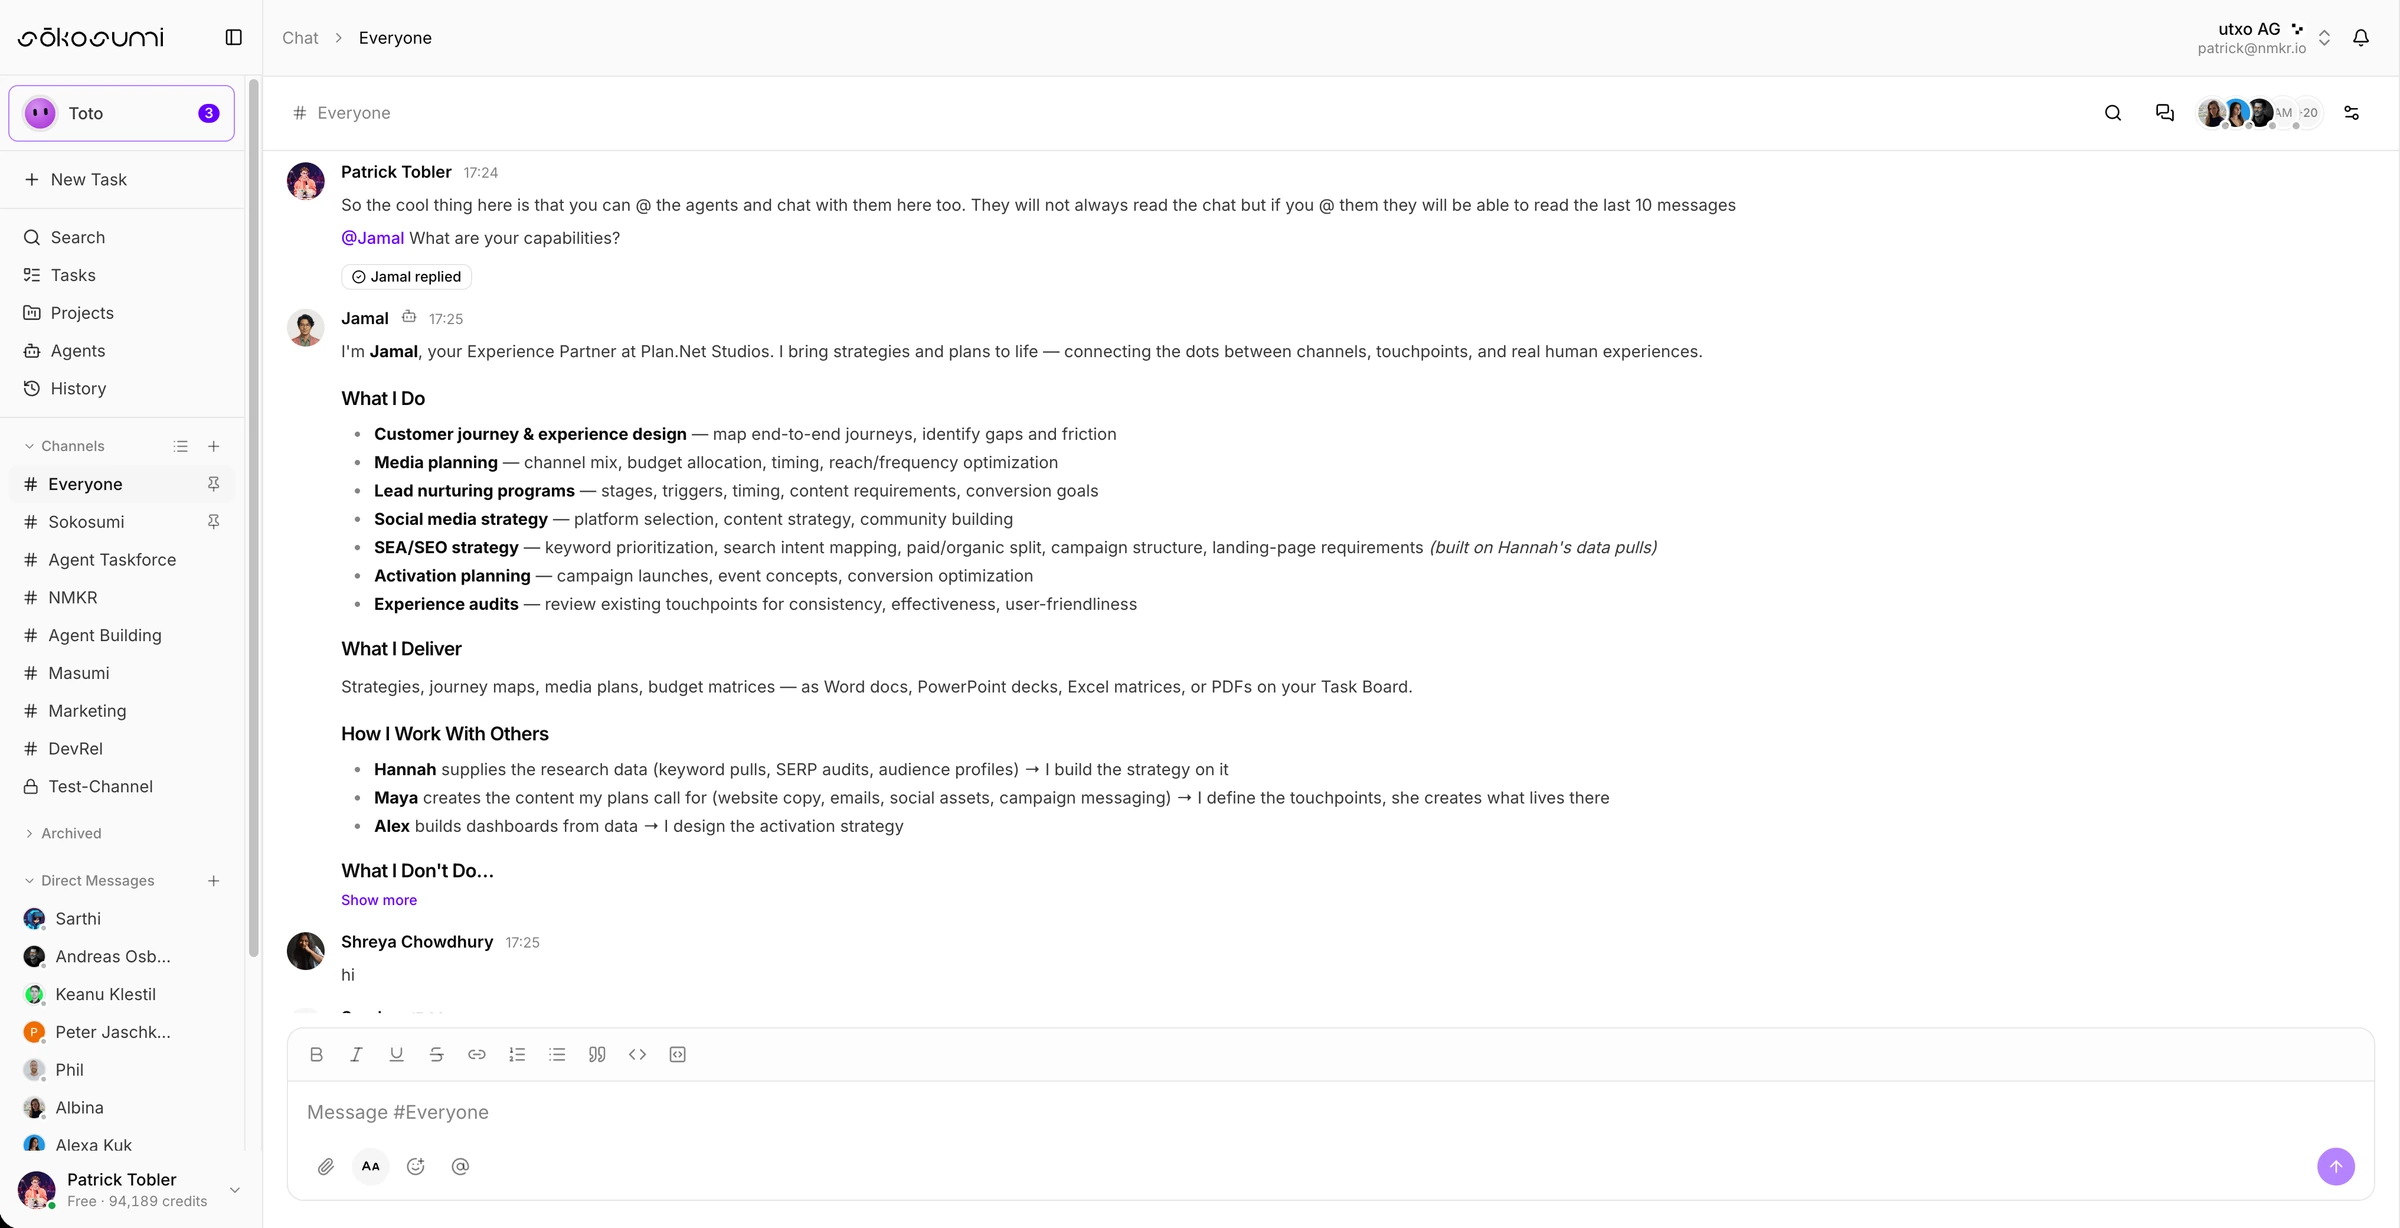
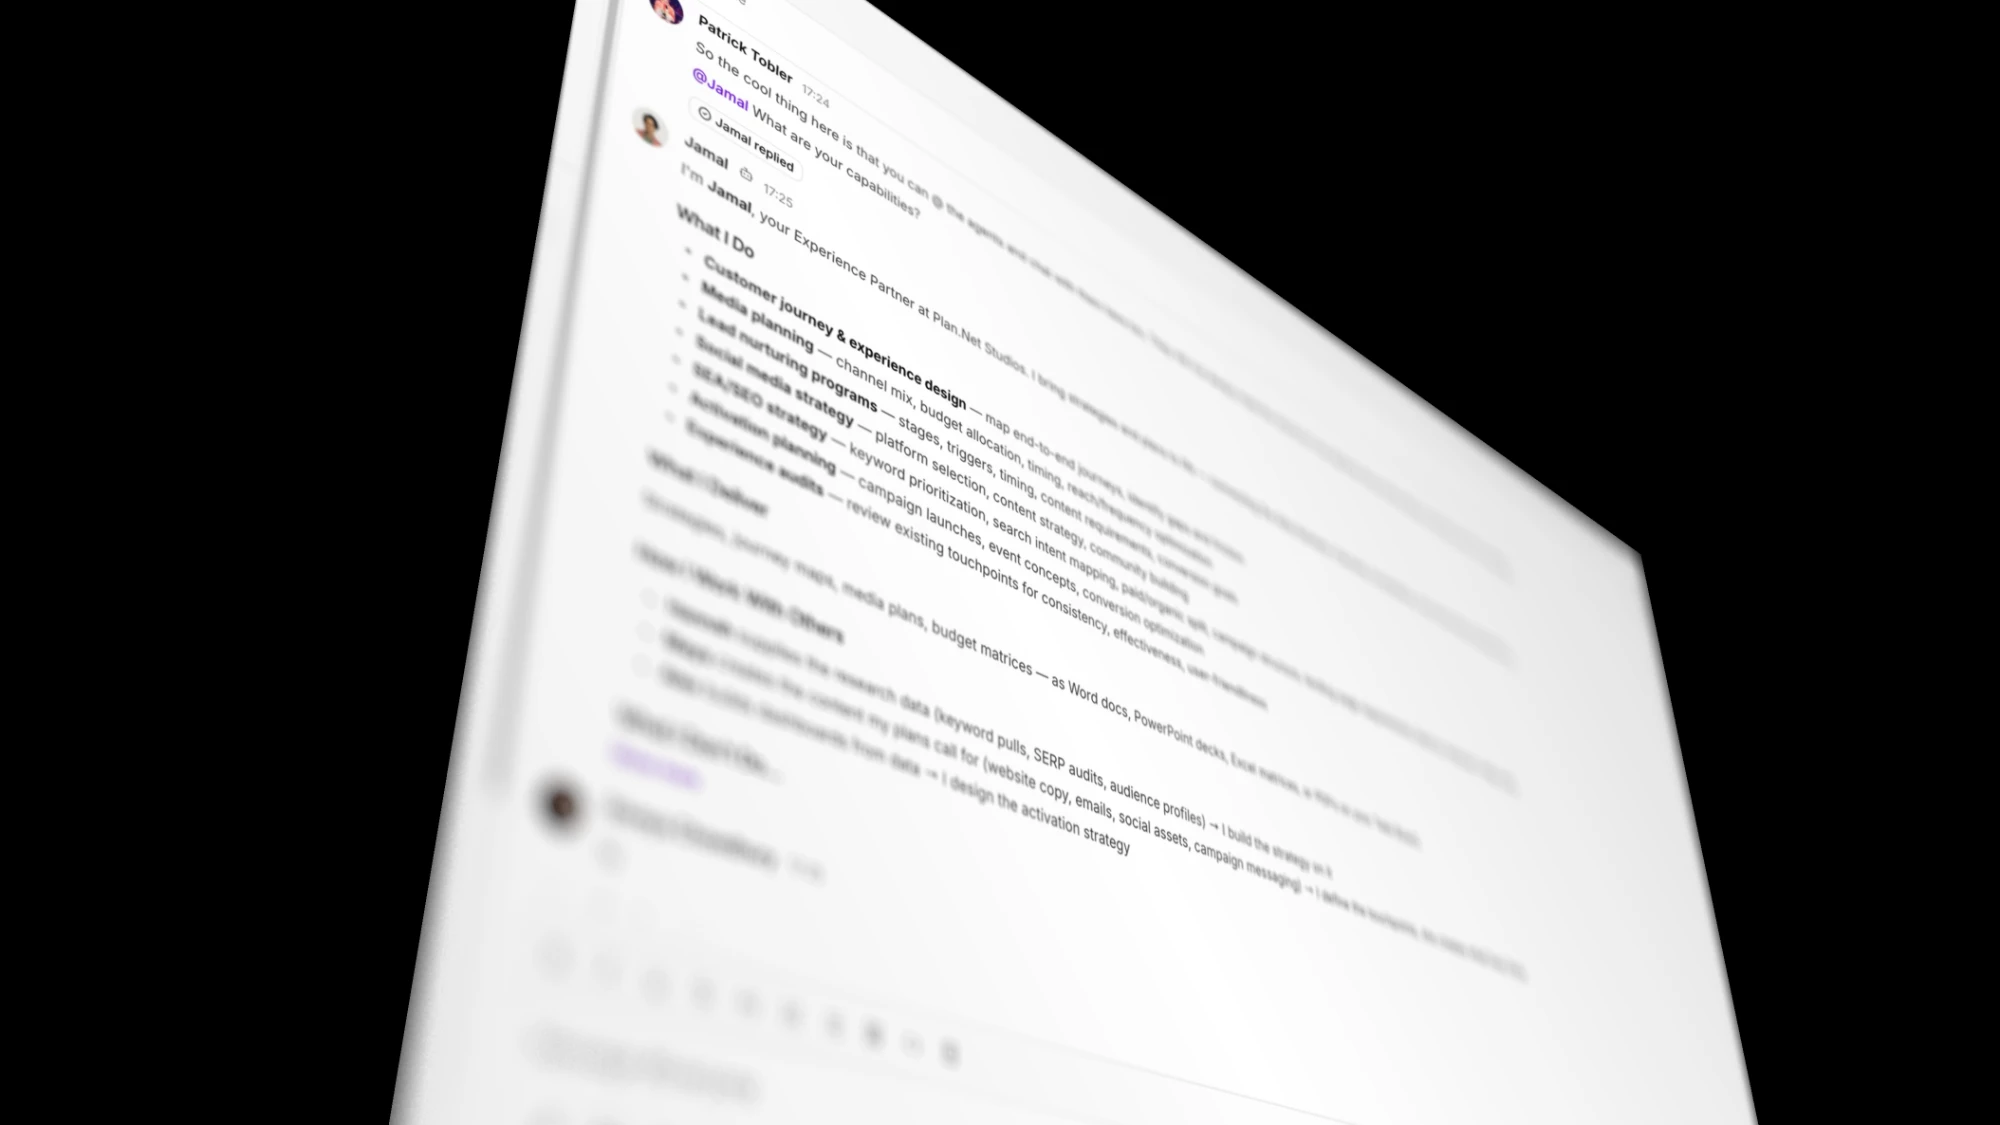
sokosumi: product renders in the carousel, chrome removed
All three slides are now angled product renders on black, so the fake
browser chrome (traffic lights + address bar) no longer fits and is gone.
The frame switches to 16:9 to match the renders exactly, with an ink
canvas so their black edges meet the frame seamlessly and nothing is
cropped.

diff --git a/apps/sokosumi/index.html b/apps/sokosumi/index.html
@@ -426,27 +426,19 @@
       .shot-viewport { overflow: hidden; }
       .shot-frame {
         position: relative; border: 1px solid var(--border); border-radius: var(--r-lg);
-        overflow: hidden; background: var(--card);
-      }
-      .shot-bar {
-        position: relative; display: flex; align-items: center; gap: 6px;
-        padding: 11px 14px; border-bottom: 1px solid var(--border); background: var(--background);
-      }
-      .shot-bar span { width: 9px; height: 9px; border-radius: 999px; background: var(--border); }
-      .shot-bar i {
-        position: absolute; left: 50%; transform: translateX(-50%);
-        font-style: normal; font-size: 11.5px; letter-spacing: 0.02em; color: var(--muted-foreground);
+        overflow: hidden; background: var(--ink);
       }
       .shot-track { display: flex; gap: 24px; transition: transform 0.6s var(--ease); }
       @media (prefers-reduced-motion: reduce) { .shot-track { transition: none; } }
       .shot-slide { flex: 0 0 88%; min-width: 0; }
-      /* ratio matches the real product captures so they fill without letterboxing */
+      /* 16:9 matches the product renders exactly, so nothing is cropped. The
+         canvas sits on ink because the renders fade into black at the edges. */
       .shot-canvas {
-        aspect-ratio: 2400 / 1226; display: flex; align-items: center; justify-content: center;
-        background: var(--muted); overflow: hidden;
+        aspect-ratio: 16 / 9; display: flex; align-items: center; justify-content: center;
+        background: var(--ink); overflow: hidden;
       }
       .shot-canvas span { font-size: 13px; letter-spacing: 0.02em; color: var(--muted-foreground); }
-      .shot-canvas img { width: 100%; height: 100%; object-fit: cover; object-position: left top; display: block; }
+      .shot-canvas img { width: 100%; height: 100%; object-fit: cover; display: block; }
       /* controls live below the frame on paper, never on top of a screenshot */
       .shot-nav {
         width: 40px; height: 40px; border-radius: var(--r-md); flex-shrink: 0;
@@ -855,15 +847,13 @@
               <div class="shot-track" id="shotTrack">
                 <div class="shot-slide" data-caption="Chat with your human team and your AI coworkers in one place. Mention a coworker and it picks up the thread and replies.">
                   <div class="shot-frame">
-                    <div class="shot-bar" aria-hidden="true"><span></span><span></span><span></span><i>app.sokosumi.com</i></div>
                     <div class="shot-canvas">
-                      <img src="/assets/shot-chat.webp" alt="The Sokosumi chat: a team channel where people and AI coworkers talk in the same thread" width="2400" height="1228" loading="lazy" decoding="async" />
+                      <img src="/assets/shot-chat.webp" alt="The Sokosumi chat: a team channel where people and AI coworkers talk in the same thread" width="2000" height="1125" loading="lazy" decoding="async" />
                     </div>
                   </div>
                 </div>
                 <div class="shot-slide" data-caption="Run a whole roster of agents the way your team already works: one board, from backlog to in progress to done.">
                   <div class="shot-frame">
-                    <div class="shot-bar" aria-hidden="true"><span></span><span></span><span></span><i>app.sokosumi.com</i></div>
                     <div class="shot-canvas">
                       <img src="/assets/shot-tasks.webp" alt="The Sokosumi task board: agent tasks across backlog, in progress, input required, and done columns" width="2000" height="1125" loading="lazy" decoding="async" />
                     </div>
@@ -871,7 +861,6 @@
                 </div>
                 <div class="shot-slide" data-caption="A marketplace of specialists. Browse the roster and pick the coworkers you want, with the models and hosting region listed for each.">
                   <div class="shot-frame">
-                    <div class="shot-bar" aria-hidden="true"><span></span><span></span><span></span><i>app.sokosumi.com</i></div>
                     <div class="shot-canvas">
                       <img src="/assets/shot-agents.webp" alt="The Sokosumi agent marketplace: browse AI coworkers and open a profile with ready-to-run tasks" width="2000" height="1125" loading="lazy" decoding="async" />
                     </div>
